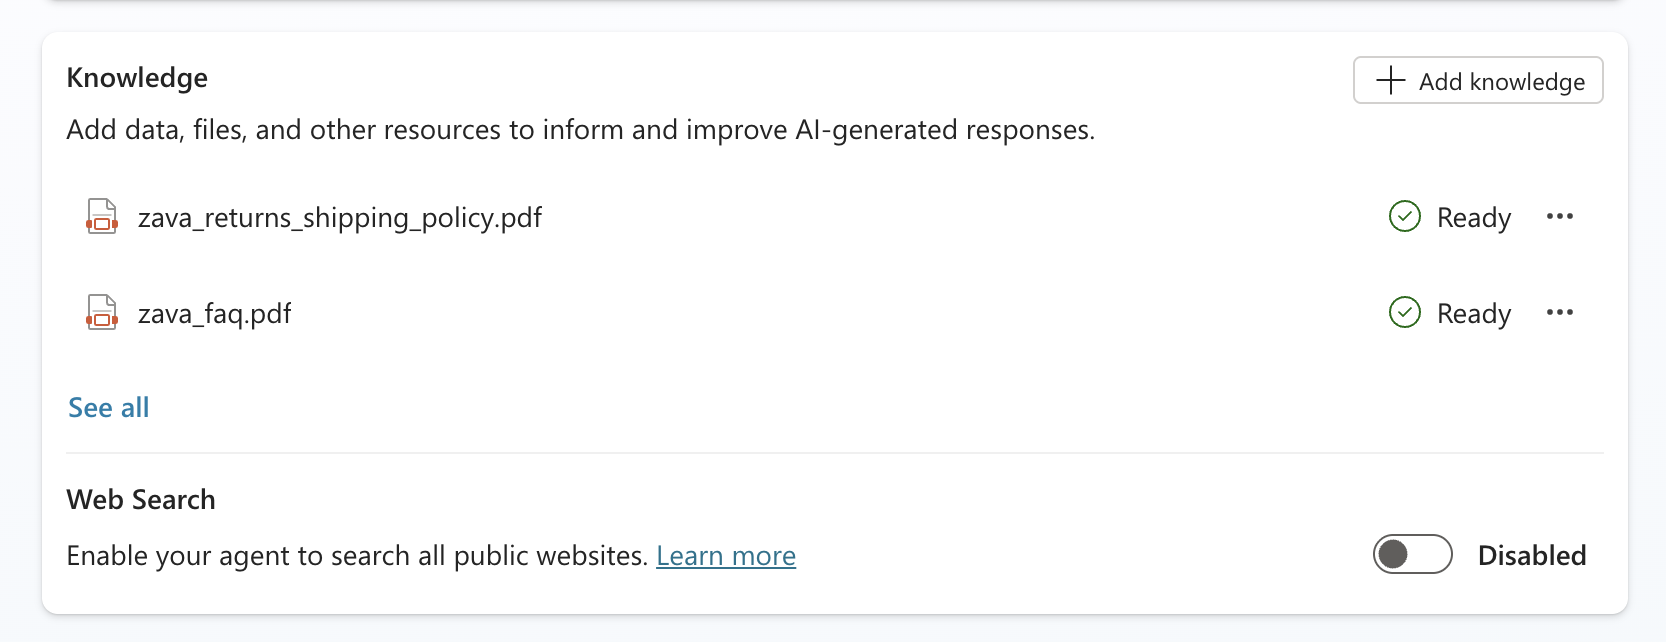
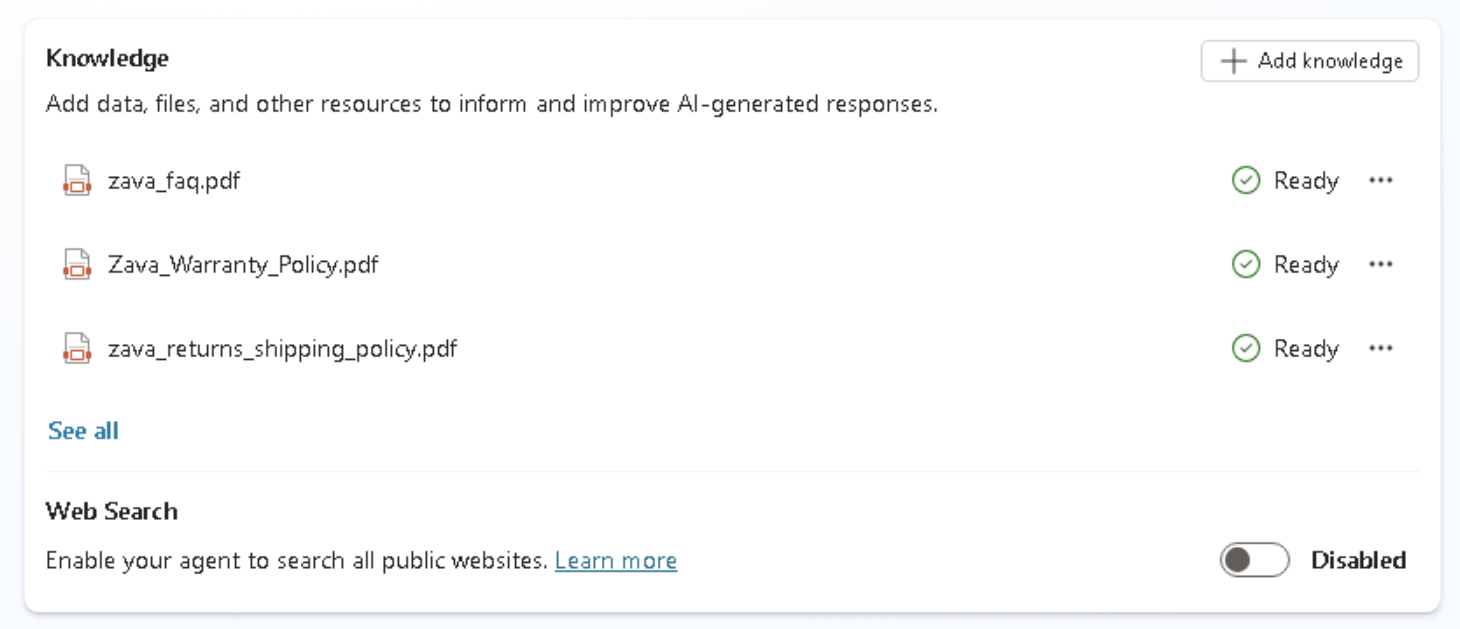
Update lab

diff --git a/lab/instructions/03-Add-A-Prompt-For-Warranty-Claim-Processing.md b/lab/instructions/03-Add-A-Prompt-For-Warranty-Claim-Processing.md
@@ -2,25 +2,7 @@
 
 Now that we’ve got an agent that can answer questions from knowledge and integrate with our MCP server for real time operations, we’ll give the agent additional capabilities by integrating an AI prompt to process warranty claims. In this section, we’ll add a Warranty Policy knowledge source (category-based rules), then use a single AI prompt to turn messy, pasted claim text into clean fields and even intelligently classify the claim.
 
-1. In your agent overview screen (select the overview tab to get to it), scroll down to the knowledge section and select the **Add Knowledge** tab.
-
-    ![AddKnowledge.png](./assets/AddKnowledgeStep3.png)
-
-1. Click the **select to browse** button and navigate to **D:\LabFiles\KnowledgeDocuments**. Select the **zava_warranty_policy** document.
-
-    ![DragAndDrop.png](./assets/DragAndDropFile.png)
-
-1. Verify the files are added and select **Add to Agent**
-
-    ![AddToAgent.png](./assets/WarrantyVerifyKnowledge.png)
-
-1. You'll know your files are ready to use when you see the **Ready** checkbox next to each file.
-
-    ![Ready.png](./assets/WarrantyKnowledgeReady.png)
-
-    Now that we have the Warranty Claim knowledge source added, we want to build our AI Prompt to extract information from the claim.
-
-1. Scroll down to the Tools section and select **Add tool**
+1. In your agent overview screen (select the overview tab to get to it), scroll down to the Tools section and select **Add tool**
 
     ![Add Tool](./assets/NewTool.png)
 

diff --git a/lab/instructions/01-Build-Your-Agent.md b/lab/instructions/01-Build-Your-Agent.md
@@ -85,7 +85,7 @@ To start, you're going to setup the foundation for your agent in Copilot Studio.
 
     ![AddKnowledge.png](./assets/AddKnowledgeBtn.png)
 
-1. Click the **select to browse** button and navigate to **D:\LabFiles\KnowledgeDocuments**. Select the **zava_faq** and **zava_returns_shipping_policy documents**.
+1. Click the **select to browse** button and navigate to **D:\LabFiles\KnowledgeDocuments**. Select the **zava_faq**, **zava_returns_shipping_policy documents** & **zava_warranty_policy**.
 
     ![DragAndDrop.png](./assets/DragAndDropFile.png)
 
